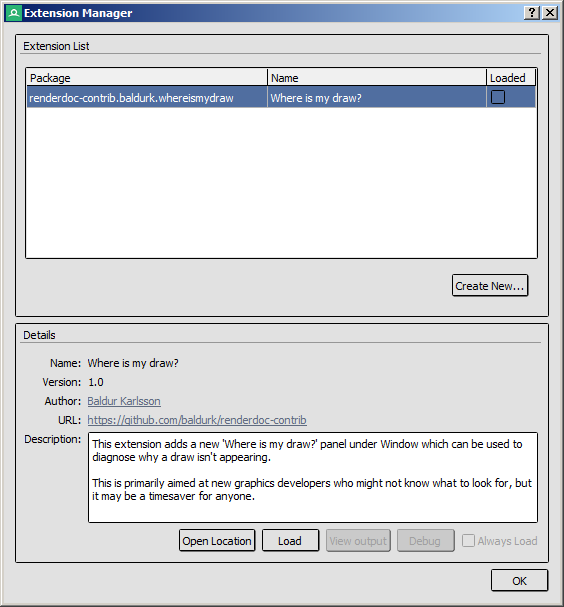
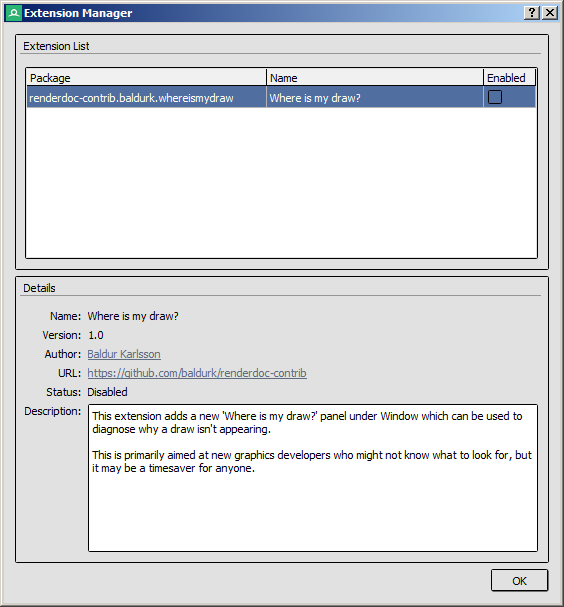
Remove 'always load' extra opt-in for extensions
* If an extension is enabled in the extension manager, it will be loaded by
  default after that until disabled

diff --git a/qrenderdoc/Windows/Dialogs/ExtensionManager.cpp b/qrenderdoc/Windows/Dialogs/ExtensionManager.cpp
@@ -48,7 +48,7 @@ ExtensionManager::ExtensionManager(ICaptureContext &ctx)
     RDHeaderView *header = new RDHeaderView(Qt::Horizontal, this);
     ui->extensions->setHeader(header);
 
-    ui->extensions->setColumns({tr("Package"), tr("Name"), tr("Loaded")});
+    ui->extensions->setColumns({tr("Package"), tr("Name"), tr("Enabled")});
     header->setColumnStretchHints({1, 4, -1});
   }
 
@@ -56,7 +56,7 @@ ExtensionManager::ExtensionManager(ICaptureContext &ctx)
   ui->version->setText(lit("---"));
   ui->author->setText(lit("---"));
   ui->URL->setText(lit("---"));
-  ui->alwaysLoad->setEnabled(false);
+  ui->status->setText(lit("---"));
 
   QObject::connect(ui->buttonBox, &QDialogButtonBox::accepted, this, &QDialog::accept);
 
@@ -89,7 +89,7 @@ void ExtensionManager::PopulateExtensionList()
       RDTreeWidgetItem *item = new RDTreeWidgetItem({e.package, e.name, QString()});
 
       item->setCheckState(
-          2, m_Ctx.Extensions().IsExtensionLoaded(e.package) ? Qt::Checked : Qt::Unchecked);
+          2, m_Ctx.Config().AlwaysLoad_Extensions.contains(e.package) ? Qt::Checked : Qt::Unchecked);
 
       ui->extensions->addTopLevelItem(item);
     }
@@ -114,13 +114,8 @@ void ExtensionManager::loadExtension(RDTreeWidgetItem *item)
     {
       // if the load succeeds, set us as checked. Otherwise, unchecked
       QString errors = m_Ctx.Extensions().LoadExtension(e.package);
-      if(errors.isEmpty())
+      if(!errors.isEmpty())
       {
-        item->setCheckState(2, Qt::Checked);
-      }
-      else
-      {
-        item->setCheckState(2, Qt::Unchecked);
         RDDialog::critical(this, tr("Failed to load extension"),
                            tr("Failed to load extension '%1':\n"
                               "%2")
@@ -129,28 +124,6 @@ void ExtensionManager::loadExtension(RDTreeWidgetItem *item)
       }
 
       update_currentItem(item);
-    }
-  }
-}
-
-void ExtensionManager::on_alwaysLoad_toggled(bool checked)
-{
-  RDTreeWidgetItem *item = ui->extensions->currentItem();
-  if(!item)
-    return;
-
-  int idx = ui->extensions->indexOfTopLevelItem(item);
-
-  if(idx >= 0 && idx < m_Extensions.count())
-  {
-    const ExtensionMetadata &e = m_Extensions[idx];
-    if(!e.name.isEmpty())
-    {
-      m_Ctx.Config().AlwaysLoad_Extensions.removeOne(e.package);
-      if(checked)
-        m_Ctx.Config().AlwaysLoad_Extensions.push_back(e.package);
-
-      m_Ctx.Config().Save();
     }
   }
 }
@@ -166,22 +139,25 @@ void ExtensionManager::on_extensions_itemChanged(RDTreeWidgetItem *item, int col
   {
     ui->extensions->setCurrentItem(item);
 
-    bool loaded = m_Ctx.Extensions().IsExtensionLoaded(item->text(0));
+    QString package = item->text(0);
 
-    // if the extension is loaded, don't allow unchecking
-    if(loaded && item->checkState(2) != Qt::Checked)
+    bool loaded = m_Ctx.Extensions().IsExtensionLoaded(package);
+    bool enabled = (item->checkState(2) == Qt::Checked);
+
+    // if the extension is unloaded and the user just enabled it, try to load it.
+    if(!loaded && enabled)
     {
-      item->setCheckState(2, Qt::Checked);
-      return;
+      loadExtension(item);
     }
 
-    // if the extension is unloaded, if we're now checked then try to load it. If
-    // we're unchecked allow that (it is a code-change after we failed to load)
-    if(!loaded)
-    {
-      if(item->checkState(2) == Qt::Checked)
-        loadExtension(item);
-    }
+    // update the config after, in case the extension immediately has crahed
+    m_Ctx.Config().AlwaysLoad_Extensions.removeOne(package);
+    if(enabled)
+      m_Ctx.Config().AlwaysLoad_Extensions.push_back(package);
+
+    m_Ctx.Config().Save();
+
+    update_currentItem(item);
   }
 }
 
@@ -218,10 +194,17 @@ void ExtensionManager::update_currentItem(RDTreeWidgetItem *item)
       else
         ui->author->setText(e.author);
 
-      bool loaded = item->checkState(2) == Qt::Checked;
-      ui->alwaysLoad->setEnabled(loaded);
+      const bool enabled = m_Ctx.Config().AlwaysLoad_Extensions.contains(e.package);
+      const bool loaded = m_Ctx.Extensions().IsExtensionLoaded(e.package);
 
-      ui->alwaysLoad->setChecked(m_Ctx.Config().AlwaysLoad_Extensions.contains(e.package));
+      if(loaded && enabled)
+        ui->status->setText(tr("Loaded (Enabled at startup)"));
+      else if(loaded && !enabled)
+        ui->status->setText(tr("Loaded (Restart required to disable)"));
+      else if(!loaded && enabled)
+        ui->status->setText(tr("Failed to load (Enabled at startup)"));
+      else if(!loaded && !enabled)
+        ui->status->setText(tr("Disabled"));
     }
   }
 }

diff --git a/qrenderdoc/Windows/PythonShell.cpp b/qrenderdoc/Windows/PythonShell.cpp
@@ -1758,7 +1758,7 @@ void PythonShell::projectExplorer_contextMenu(const QPoint &pos)
     // if this is the root node of a UI extension, add options to filter output/reload
     if(item->parent() == m_UIExtensions)
     {
-      QString itemPath = item->data(0, Qt::UserRole + 1).toString();
+      rdcstr itemPath = item->data(0, Qt::UserRole + 1).toString();
 
       contextMenu.insertAction(contextMenu.actions()[0], &reloadExtension);
       contextMenu.insertSeparator(contextMenu.actions()[1]);
@@ -1782,6 +1782,18 @@ void PythonShell::projectExplorer_contextMenu(const QPoint &pos)
 
       QObject::connect(&reloadExtension, &QAction::triggered,
                        [this, itemPath]() { m_Ctx.Extensions().LoadExtension(itemPath); });
+
+      if(!m_Ctx.Config().AlwaysLoad_Extensions.contains(itemPath))
+      {
+        reloadExtension.setEnabled(true);
+        reloadExtension.setText(tr("Enable extension"));
+        reloadExtension.setIcon(Icons::add());
+
+        QObject::connect(&reloadExtension, &QAction::triggered, [this, itemPath]() {
+          m_Ctx.Config().AlwaysLoad_Extensions.push_back(itemPath);
+          m_Ctx.Config().Save();
+        });
+      }
 
       QObject::connect(&explorerOpen, &QAction::triggered,
                        [this, diskLocation]() { QDesktopServices::openUrl(diskLocation); });

diff --git a/qrenderdoc/Windows/Dialogs/ExtensionManager.h b/qrenderdoc/Windows/Dialogs/ExtensionManager.h
@@ -48,7 +48,6 @@ public:
 
 private slots:
   // automatic slots
-  void on_alwaysLoad_toggled(bool checked);
   void on_extensions_currentItemChanged(RDTreeWidgetItem *item, RDTreeWidgetItem *);
   void on_extensions_itemChanged(RDTreeWidgetItem *item, int col);
 

diff --git a/docs/how/how_python_extension.rst b/docs/how/how_python_extension.rst
@@ -45,11 +45,11 @@ To configure installed extensions, open the extension manager by opening the :gu
 
 	Extension Manager: Configures installed extensions.
 
-From here a list of all installed extensions is presented. By default extensions are not loaded, to load an extension either select it and press :guilabel:`Load` or else tick the box in the :guilabel:`Loaded` column in the list. As with python modules, once loaded an extension cannot be unloaded until the program is restarted.
+From here a list of all installed extensions is presented. By default extensions are not enabled or loaded, to load an extension you tick the box in the :guilabel:`Enabled` column.
 
-Once an extension is loaded to enable it permanently, tick the :guilabel:`Always Load` checkbox when the extension is selected. Once enabled this means the extension will always load when the UI starts without any user interaction. Extensions must be loaded first to ensure they can load without errors or crashes before enabling them to load at startup.
+Once an extension is enabled it will be loaded each time RenderDoc starts, and as normal for python modules, once loaded an extension cannot be unloaded. To disable an extension uncheck the :guilabel:`Enabled` checkbox and the extension will be disabled the next time you restart RenderDoc.
 
-A loaded extension can be reloaded by pressing the :guilabel:`Reload` button which will attempt to unload and load the extension again to refresh the code. This may break so if you encounter any problems it's recommended that you restart the program to ensure a clean reload.
+A loaded extension can be reloaded if the files have changed on disk from the :doc:`python scripting <../window/python_scripting>` window. This may break especially in the presence of callbacks, open UI, registered handlers or other persistent pieces of code. If you encounter any problems it's recommended that you restart RenderDoc to ensure a clean reload.
 
 Writing extensions
 ------------------

diff --git a/docs/python_api/ui_extensions.rst b/docs/python_api/ui_extensions.rst
@@ -20,17 +20,10 @@ From the dialog that appears enter a package name such as ``tutorialext``. This 
 
 For more information about the registration of python extensions see :doc:`../how/how_python_extension`
 
-Loading the extension
----------------------
+Enabling the extension
+----------------------
 
-To load the extension, select it in the list in the extension manager and click the :guilabel:`Load` button. Python modules can't be unloaded but they can be reloaded if changes are made to the files on disk, so the button changes to :guilabel:`Reload`.
-
-When the extension is loaded a ``register()`` function is called, which at the moment for us just prints a message. This message can be viewed in the output panel of the :doc:`python scripting <../window/python_scripting>` window, which you can jump to by clicking :guilabel:`View Output`. You can filter the output with the drop-down above the output text.
-
-.. note::
-	The output this will not show any messages from before the window was opened - you can click :guilabel:`Reload` after opening the python scripting window to see some new messages.
-
-To avoid bugs in extensions from making the UI unusable easily, python extensions are not loaded by default. Once you've loaded an extension if you wish to have it automatically load on startup, you can do so by enabling :guilabel:`Always Load`.
+To load the extension, tick the :guilabel:`Enable` checkbox for its entry the extension manager. Python modules can't be unloaded but they can be reloaded if changes are made to the files on disk, which can be done from the :doc:`python scripting <../window/python_scripting>` window or the status bar.
 
 Editing your extension
 ----------------------
